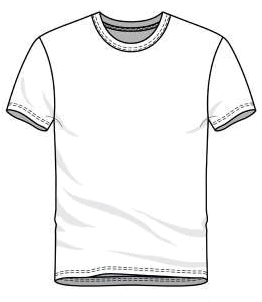
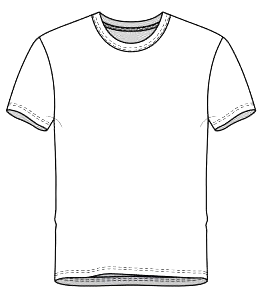
feat: finalized photographic dyeing model with cleaned user assets

diff --git a/src/app/design/page.tsx b/src/app/design/page.tsx
@@ -33,50 +33,67 @@ interface ChatMessage {
   content: string;
   images?: AIImage[];
 }
-function TShirtSVG({ color, side = "front" }: { color: string; side?: "front" | "back" }) {
-  const strokeColor = "#333333";
-  // Boxy / Oversized Path Coordinates
-  const bodyPath = side === "front"
-    ? `M 80,450 L 80,180 L 10,140 L 95,35 L 145,28 Q 200,55 255,28 L 305,35 L 390,140 L 320,180 L 320,450 Z`
-    : `M 80,450 L 80,180 L 10,140 L 95,35 L 145,28 Q 200,18 255,28 L 305,35 L 390,140 L 320,180 L 320,450 Z`;
+function MockupViewport({ side, type, color, sleeveColor }: { side: "front" | "back", type: "tshirt" | "raglan", color: string, sleeveColor?: string }) {
+  const id = useId().replace(/:/g, "");
+  const imageUrl = `/mockups/${type}_${side}.png`;
 
   return (
-    <svg width="100%" height="100%" viewBox="0 0 400 480" fill="none" xmlns="http://www.w3.org/2000/svg" className="mockup-svg">
-      <defs>
-        <filter id="vector-shadow"><feDropShadow dx="0" dy="4" stdDeviation="8" floodOpacity="0.08" /></filter>
-      </defs>
-      <g filter="url(#vector-shadow)">
-        <path d={bodyPath} fill="#FFFFFF" />
-        <path d={bodyPath} fill={color} stroke={strokeColor} strokeWidth="1.8" strokeLinejoin="round" />
-        {/* Detail Lines (Vector Style) */}
-        <path d="M 80,180 L 115,195" stroke={strokeColor} strokeWidth="1.2" opacity="0.4" />
-        <path d="M 320,180 L 285,195" stroke={strokeColor} strokeWidth="1.2" opacity="0.4" />
-        <path d="M 80,440 L 320,440" stroke={strokeColor} strokeWidth="1" strokeDasharray="3,2" opacity="0.3" />
-      </g>
-    </svg>
+    <div className={`mockup-viewport relative w-full h-full overflow-hidden bg-white instance-${id}`}>
+      <style>{`
+        .instance-${id} .blueprint-grid {
+          background-image: radial-gradient(#000 1px, transparent 1px);
+          background-size: 20px 20px;
+          opacity: 0.03;
+        }
+        /* THE COLOR BASE (Solid Color behind the image) */
+        .instance-${id} .mockup-base-color {
+          position: absolute;
+          inset: 0;
+          background-color: ${color};
+          mask-image: url(${imageUrl});
+          mask-size: contain;
+          mask-position: center;
+          mask-repeat: no-repeat;
+          -webkit-mask-image: url(${imageUrl});
+          -webkit-mask-size: contain;
+          -webkit-mask-position: center;
+          -webkit-mask-repeat: no-repeat;
+        }
+        /* THE MOCKUP IMAGE (Multiply on top of the color) */
+        .instance-${id} .mockup-image-layer {
+          position: absolute;
+          inset: 0;
+          background-image: url(${imageUrl});
+          background-size: contain;
+          background-position: center;
+          background-repeat: no-repeat;
+          mix-blend-mode: multiply;
+        }
+      `}</style>
+      
+      <div className="blueprint-grid absolute inset-0 pointer-events-none" />
+      
+      {/* 1. Dyeing the fabric with color */}
+      <div className="mockup-base-color transition-colors duration-500" />
+      
+      {/* 2. Applying the original photo detail (Shadows/folds) */}
+      <div className="mockup-image-layer pointer-events-none" />
+
+      <div className="absolute bottom-6 right-6 font-mono text-[10px] text-gray-400 font-bold opacity-30 uppercase tracking-[0.2em]">
+        UNI / {type} / {side}
+      </div>
+    </div>
   );
+}
+
+function TShirtSVG({ color, side = "front" }: { color: string; side?: "front" | "back" }) {
+  return <MockupViewport side={side} type="tshirt" color={color} />;
 }
 
 function RaglanShirtSVG({ color, sleeveColor = "#333333", side = "front" }: { color: string; sleeveColor?: string; side?: "front" | "back" }) {
-  const strokeColor = "#333333";
-  
-  return (
-    <svg width="100%" height="100%" viewBox="0 0 400 480" fill="none" xmlns="http://www.w3.org/2000/svg" className="mockup-svg">
-      <defs>
-        <filter id="raglan-vector-shadow"><feDropShadow dx="0" dy="4" stdDeviation="8" floodOpacity="0.1" /></filter>
-      </defs>
-      <g filter="url(#raglan-vector-shadow)">
-        {/* BODY */}
-        <path d="M 160,25 C 180,55 220,55 240,25 L 300,130 L 300,450 C 240,465 160,465 100,450 L 100,130 Z" fill={color} stroke={strokeColor} strokeWidth="1.8" />
-        {/* SLEEVES */}
-        <path d="M 160,25 C 130,20 100,25 70,45 L 5,145 L 60,200 L 100,130 Z" fill={sleeveColor} stroke={strokeColor} strokeWidth="1.8" />
-        <path d="M 240,25 C 270,20 300,25 330,45 L 395,145 L 340,200 L 300,130 Z" fill={sleeveColor} stroke={strokeColor} strokeWidth="1.8" />
-        {/* COLLAR */}
-        <path d="M 160,25 C 175,55 225,55 240,25 C 225,48 175,48 160,25 Z" fill={color} stroke={strokeColor} strokeWidth="1.8" />
-      </g>
-    </svg>
-  );
+  return <MockupViewport side={side} type="raglan" color={color} sleeveColor={sleeveColor} />;
 }
+
 
 
 
